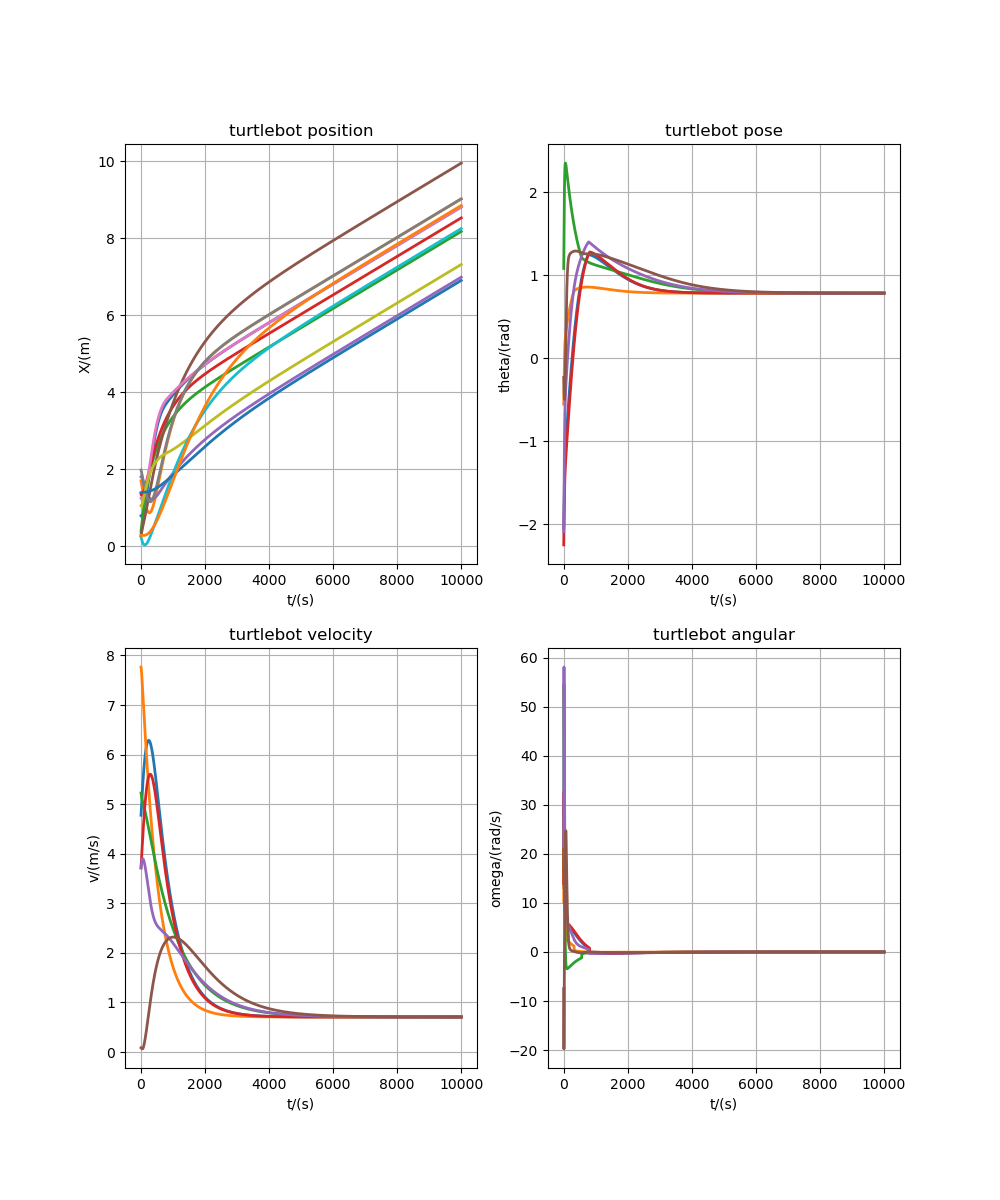
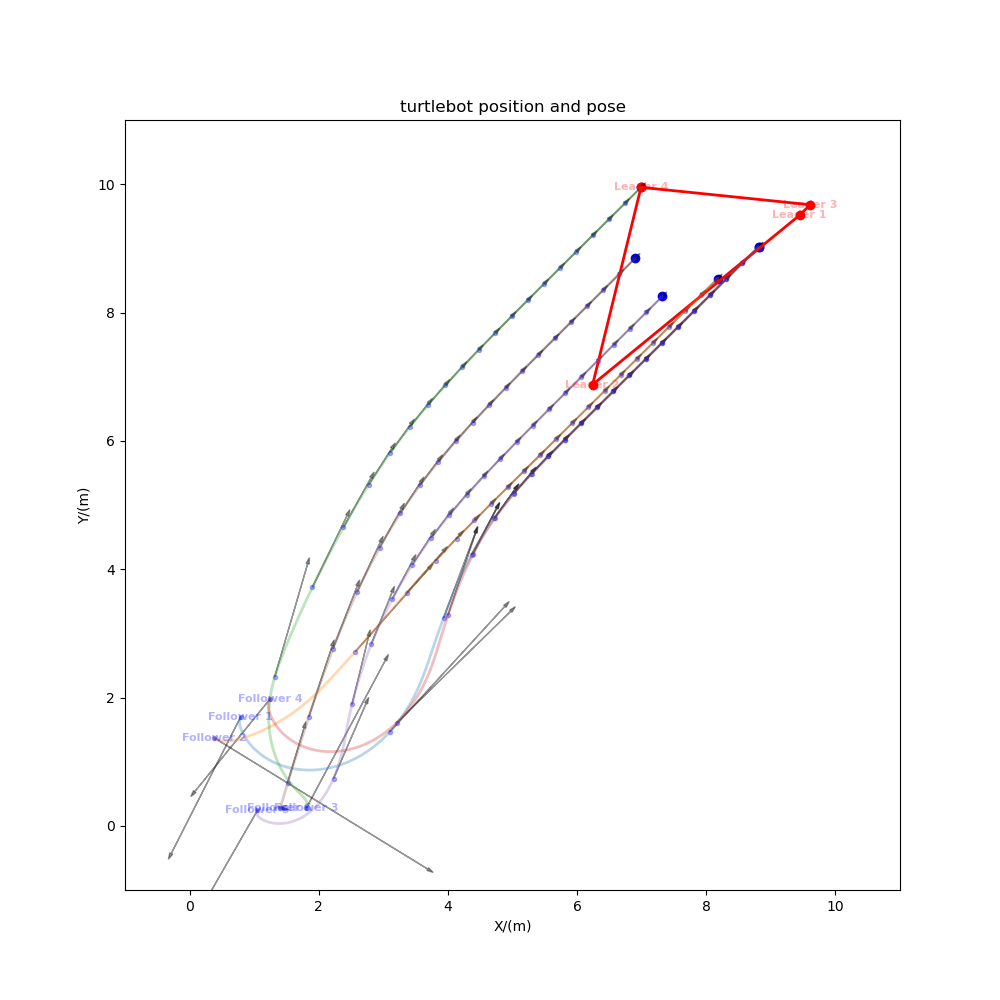
add 非线性非完整约束 file

diff --git a/containment/containment11非线性非完整约束离散化-领导者移动+时延.py b/containment/containment11非线性非完整约束离散化-领导者移动+时延.py
@@ -12,7 +12,7 @@ random.seed(88)
 
 # 迭代设置
 t_sum = 10
-T = 0.009
+T = 0.001
 iter = int(np.floor(t_sum/T))
 num_follower = 6
 num_leader = 4
@@ -75,7 +75,21 @@ A_LF = np.array([[1,0,0,0],
                  [0,1,0,0],
                  [0,0,0,0]])    # 领导者和跟随者的耦合邻接矩阵
 
-# 先写没有时延的版本
+# 再写有时延的版本，稍后把时变的时延加到循环中
+tau = np.array([[0.009, 0.010, 0.002, 0.004, 0.002, 0.009],
+              [0.009, 0.010, 0.002, 0.004, 0.002, 0.009],
+              [0.009, 0.010, 0.002, 0.004, 0.002, 0.009],
+              [0.009, 0.010, 0.002, 0.004, 0.002, 0.009],
+              [0.009, 0.010, 0.002, 0.004, 0.002, 0.009],
+              [0.009, 0.010, 0.002, 0.004, 0.002, 0.009]])  # 初始化时延
+d = np.floor(tau/0.001).astype(int)
+
+non_zero_indices = A_F != 0    # 找到 A 中不等于0的元素的位置
+# ------------------------------主要修改这里--------------------------------
+tau_actual = [2460, 2461, 2462, 2463, 2464, 2465]
+d[non_zero_indices] = tau_actual    # 使用布尔索引将新值赋予 d 矩阵
+
+dmax = np.max(d)
 
 # 初始化变量
 ux = [0,0,0,0,0,0]
@@ -96,6 +110,14 @@ kk = [0,0,0,0,0,0]
 rx_history = []
 ry_history = []
 
+for i in range(dmax):
+    x_history.append(x)
+    y_history.append(y)
+    theta_history.append(theta)
+    # rx_history.append(rx)
+    # ry_history.append(ry)
+    
+
 for k in range(iter):
     hat_ex = [0,0,0,0,0,0]
     hat_ey = [0,0,0,0,0,0]
@@ -104,8 +126,8 @@ for k in range(iter):
     # 控制方程
     for i in range(num_follower):
         for j in range(num_follower):
-            hat_ex[i] = hat_ex[i] - A_F[i][j] * (x[i] - x[j])
-            hat_ey[i] = hat_ey[i] - A_F[i][j] * (y[i] - y[j])
+            hat_ex[i] = hat_ex[i] - A_F[i][j] * (x[i] - x_history[-d[i][j]][j])
+            hat_ey[i] = hat_ey[i] - A_F[i][j] * (y[i] - y_history[-d[i][j]][j])
         for j in range(num_leader):
             hat_ex[i] = hat_ex[i] - A_LF[i][j] * (x[i] - rx[j])
             hat_ey[i] = hat_ey[i] - A_LF[i][j] * (y[i] - ry[j])
@@ -176,6 +198,7 @@ v_history = np.array(v_history)
 omega_history = np.array(omega_history)
 # --------------------------------------------------------------------------------------------
 plt.subplots(figsize=(10, 12))
+plt.title(f"turtlebot position and pose T={T}, iter={iter}, delay={tau_actual}")
 plt.subplot(2, 2, 1)
 plt.grid()
 for k in range(num_follower):   # 绘制轨迹和速度向量
@@ -206,7 +229,7 @@ plt.plot(omega_history, lw=2)
 plt.title('turtlebot angular')    # 设置图形标题和坐标轴标签
 plt.xlabel('t/(s)')
 plt.ylabel('omega/(rad/s)')
-plt.savefig(f"turtlebot_trajectories T={T}, iter={iter} position and pose.png")
+plt.savefig(f"turtlebot_trajectories T={T}, iter={iter}, delay={tau_actual} position and pose.png")
 plt.show()    # 显示图形
 
 # -------------------------------------------------------------------------------------------
@@ -248,10 +271,10 @@ for fr in range(iter):             # 绘制箭头
             ax.scatter(x_history[fr,i], y_history[fr,i], c='b', marker='.', label='Followers', alpha=0.3)
 
 
-plt.title('turtlebot position and pose')    # 设置图形标题和坐标轴标签
+plt.title(f'turtlebot position and pose T={T}, iter={iter}')    # 设置图形标题和坐标轴标签
 plt.xlabel('X/(m)')
 plt.ylabel('Y/(m)')
-plt.savefig(f"turtlebot_trajectories T={T}, iter={iter}.png")
+plt.savefig(f"turtlebot_trajectories T={T}, iter={iter}, delay={tau_actual}.png")
 plt.show()    # 显示图形
 
 # -------------------------------------------------制作动画-------------------------------------------
@@ -276,6 +299,7 @@ for i in range(len(x)):             # 绘制箭头
     dy = 0.5 * np.sin(theta[i])     # 计算箭头的y方向分量
     plt.arrow(x[i], y[i], dx, dy, head_width=0.1, head_length=0.2, fc='black', ec='black')
 plt.plot(x_history, y_history, lw=2)
+plt.title(f"turtlebot_trajectories T={T}, iter={iter}, delay={tau_actual}")
 
 slic = 100
 slice = int(np.floor(iter/slic))
@@ -308,4 +332,4 @@ def update(frame):
 
 ani = animation.FuncAnimation(fig, update, frames=int(np.floor(iter/slice)), interval=1000*slice*T, blit=True)    # Create the animation
 
-ani.save(f"turtlebot_trajectories T={T}, iter={iter}.gif", writer='pillow')    # f"turtlebot_trajectories T={T}, iter={iter}.gif"  'turtlebot_trajectories.gif'
+ani.save(f"turtlebot_trajectories T={T}, iter={iter}, delay={tau_actual}.gif", writer='pillow')    # f"turtlebot_trajectories T={T}, iter={iter}.gif"  'turtlebot_trajectories.gif'
